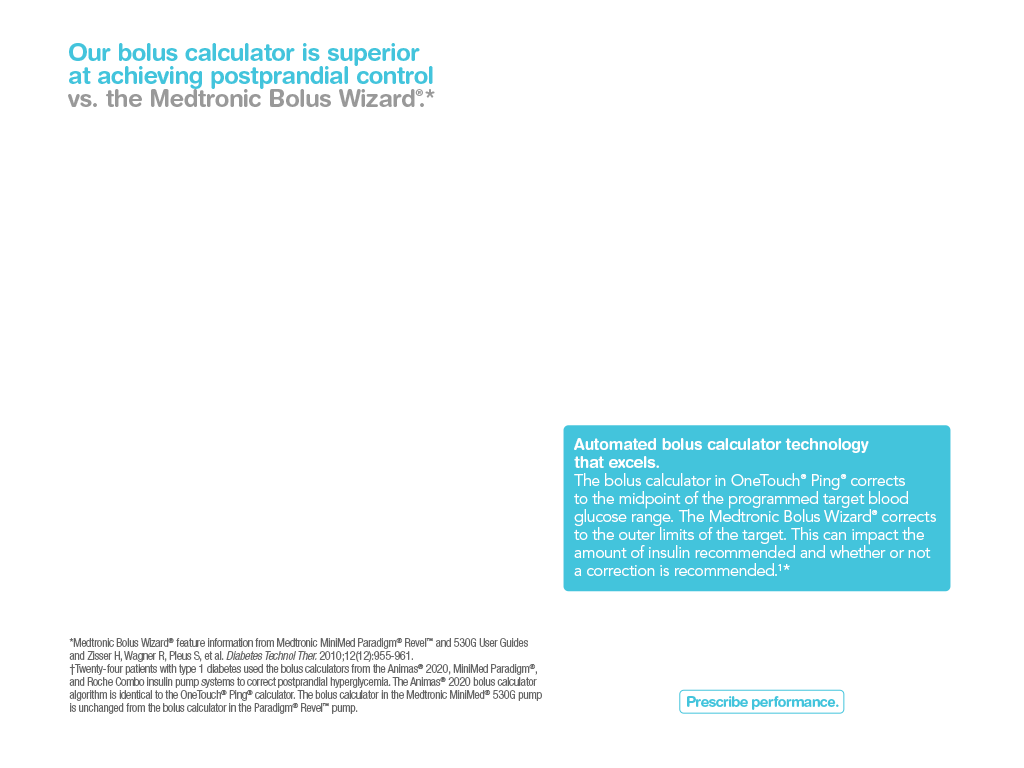
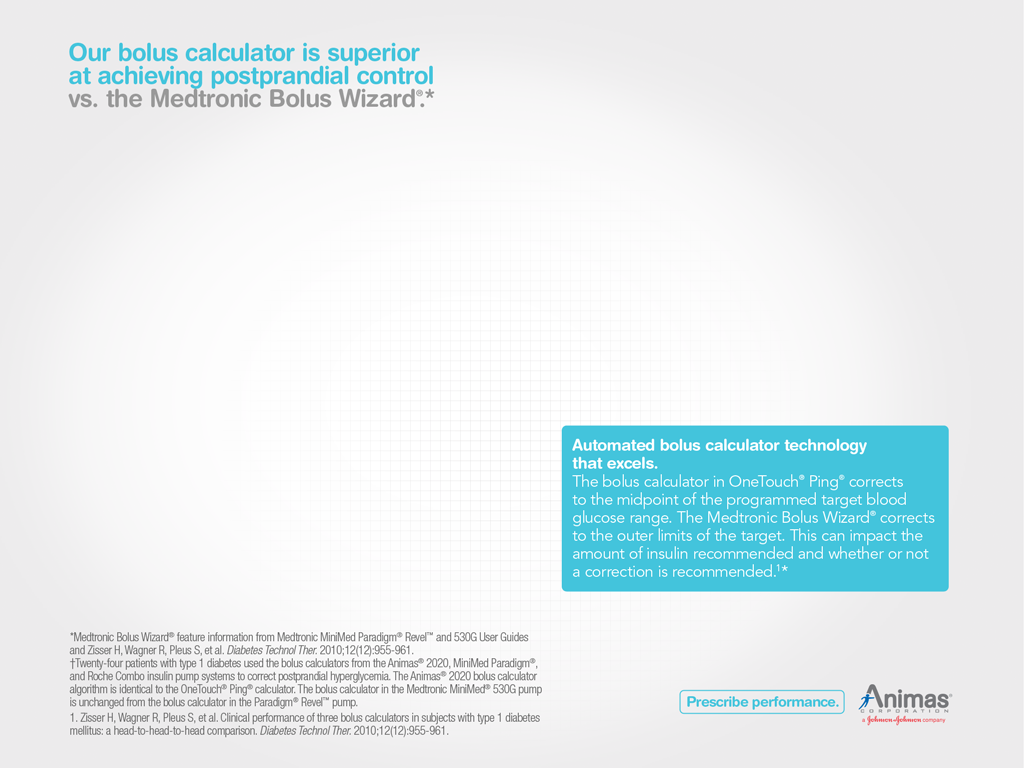
add footnote to calculator_2

diff --git a/salesaid/animas/res/css/last_page.css b/salesaid/animas/res/css/last_page.css
@@ -1,12 +1,12 @@
 #header {
 	position:absolute;
-	left:137px;
+	left:117px;
 	top:181px;
 }
 
 #menu {
 	position:absolute;
-	left:100px;
+	left:60px;
 	top:419px;
 }
 

diff --git a/salesaid/animas/res/css/calculator_2.css b/salesaid/animas/res/css/calculator_2.css
@@ -13,7 +13,7 @@
 
 .charts{
 	position:absolute;	
-	margin-top:45px;	
+	margin-top:35px;	
 }
 
 
